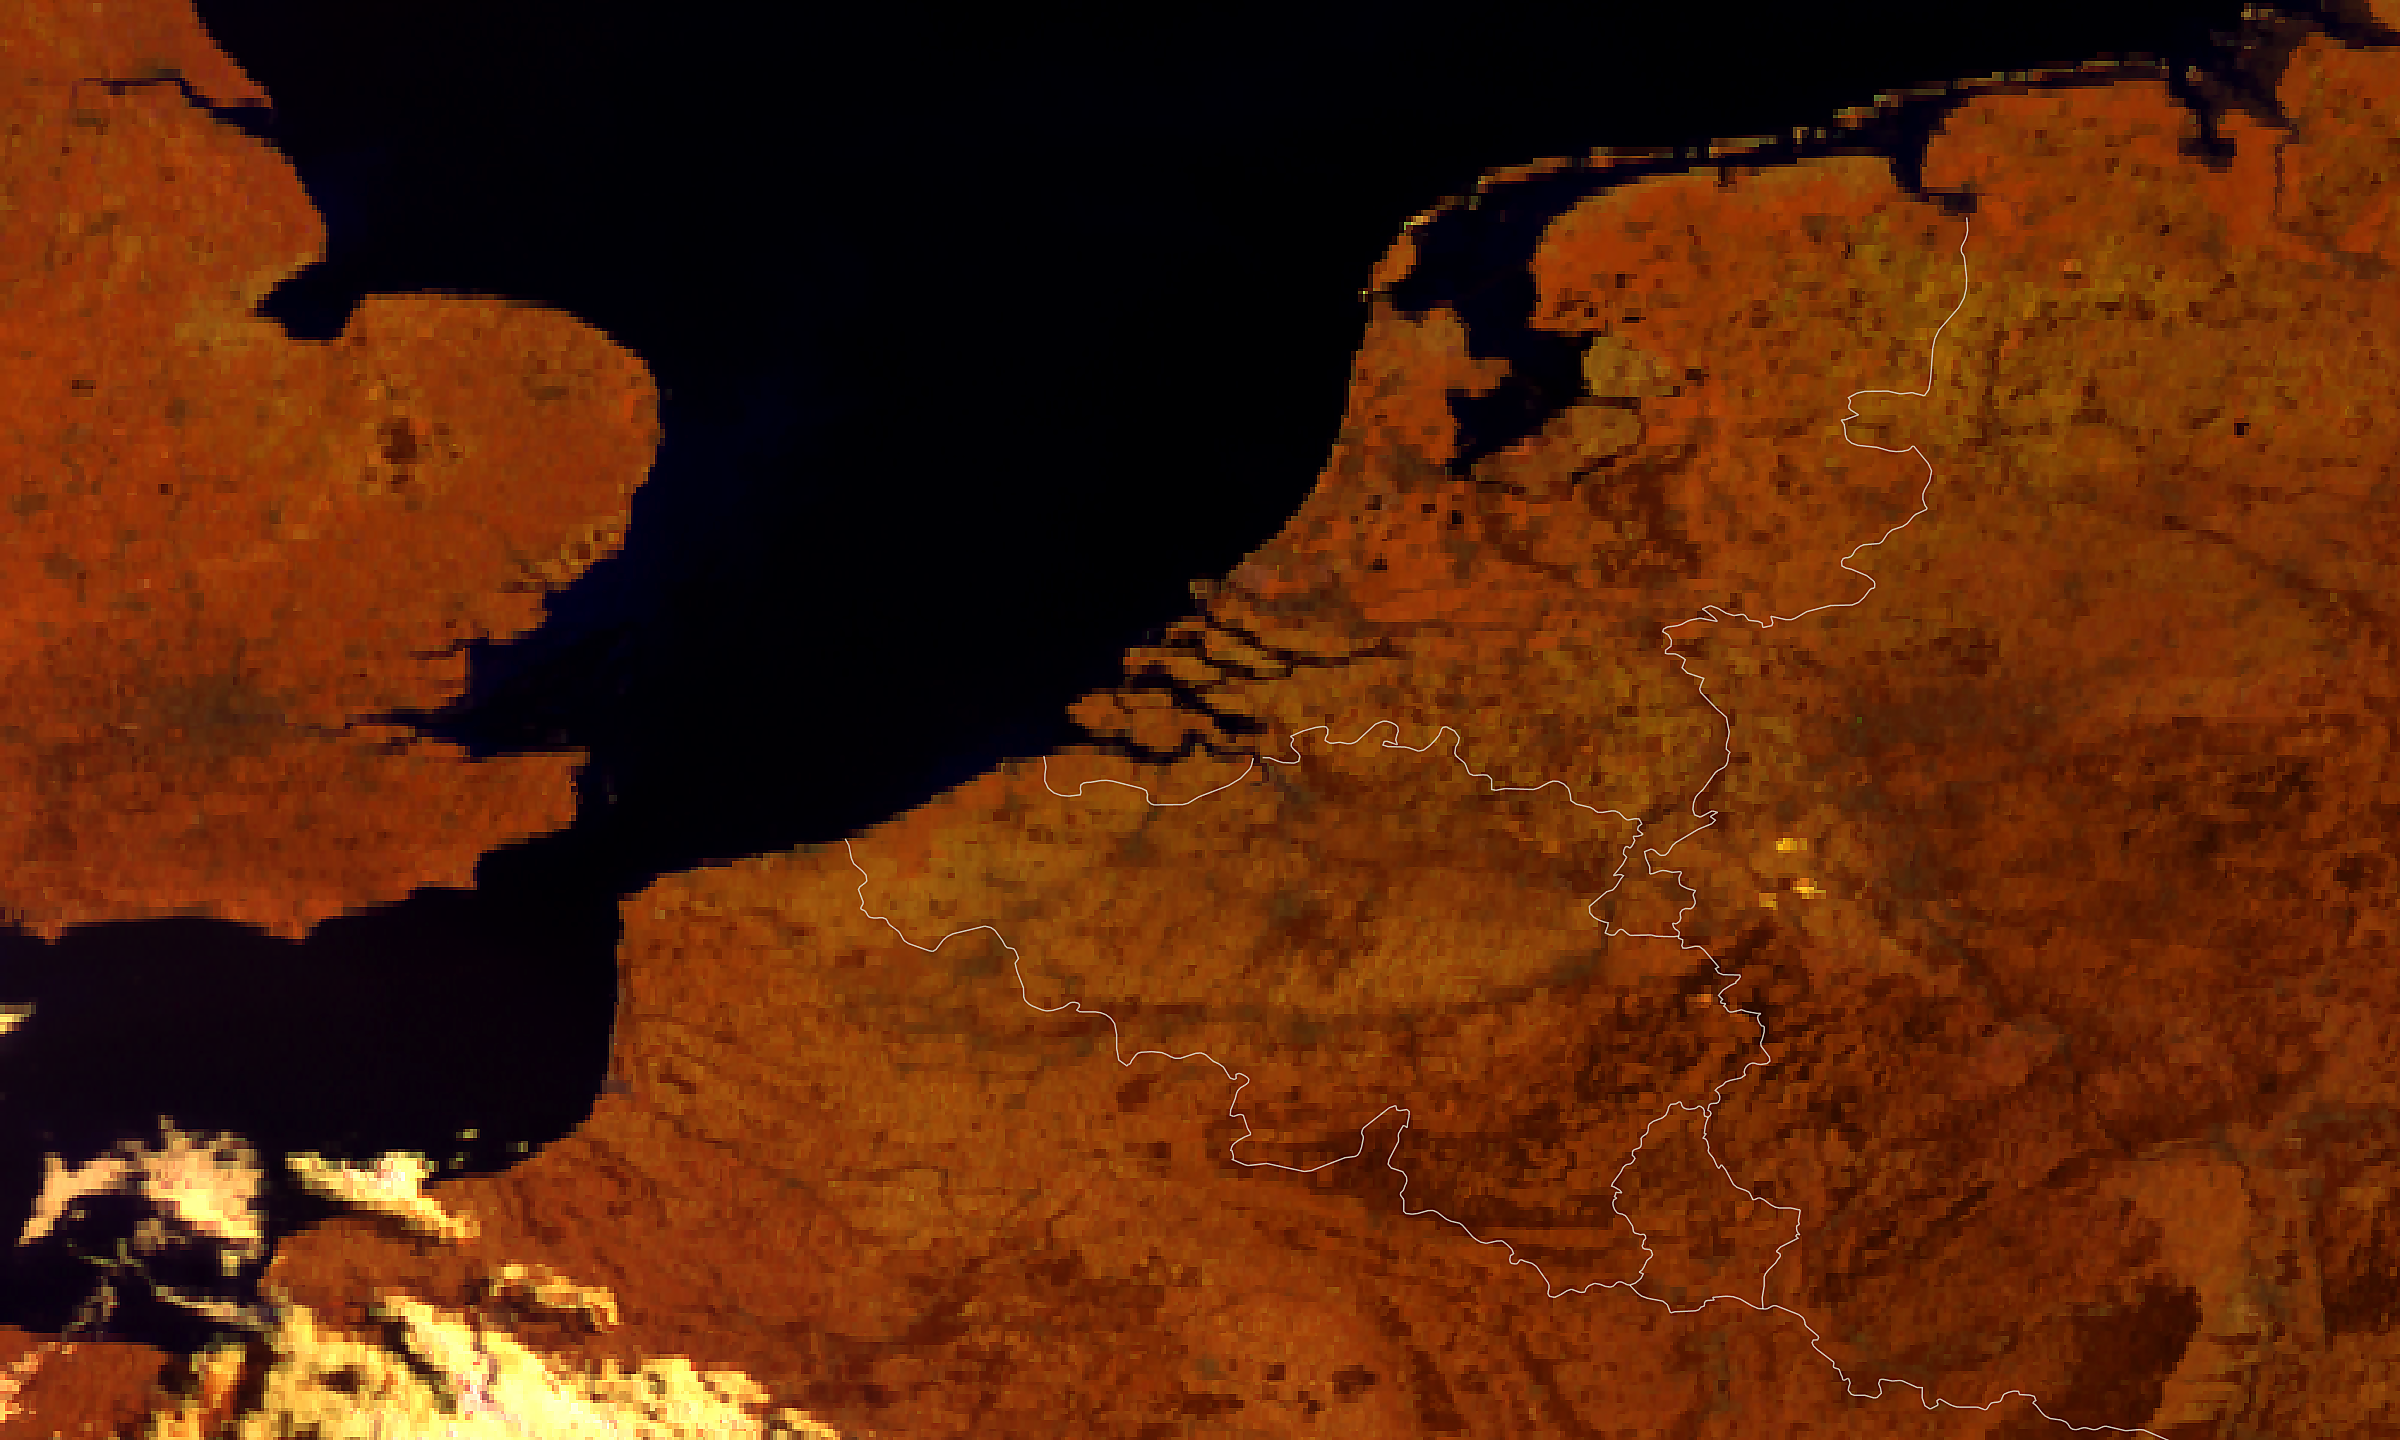
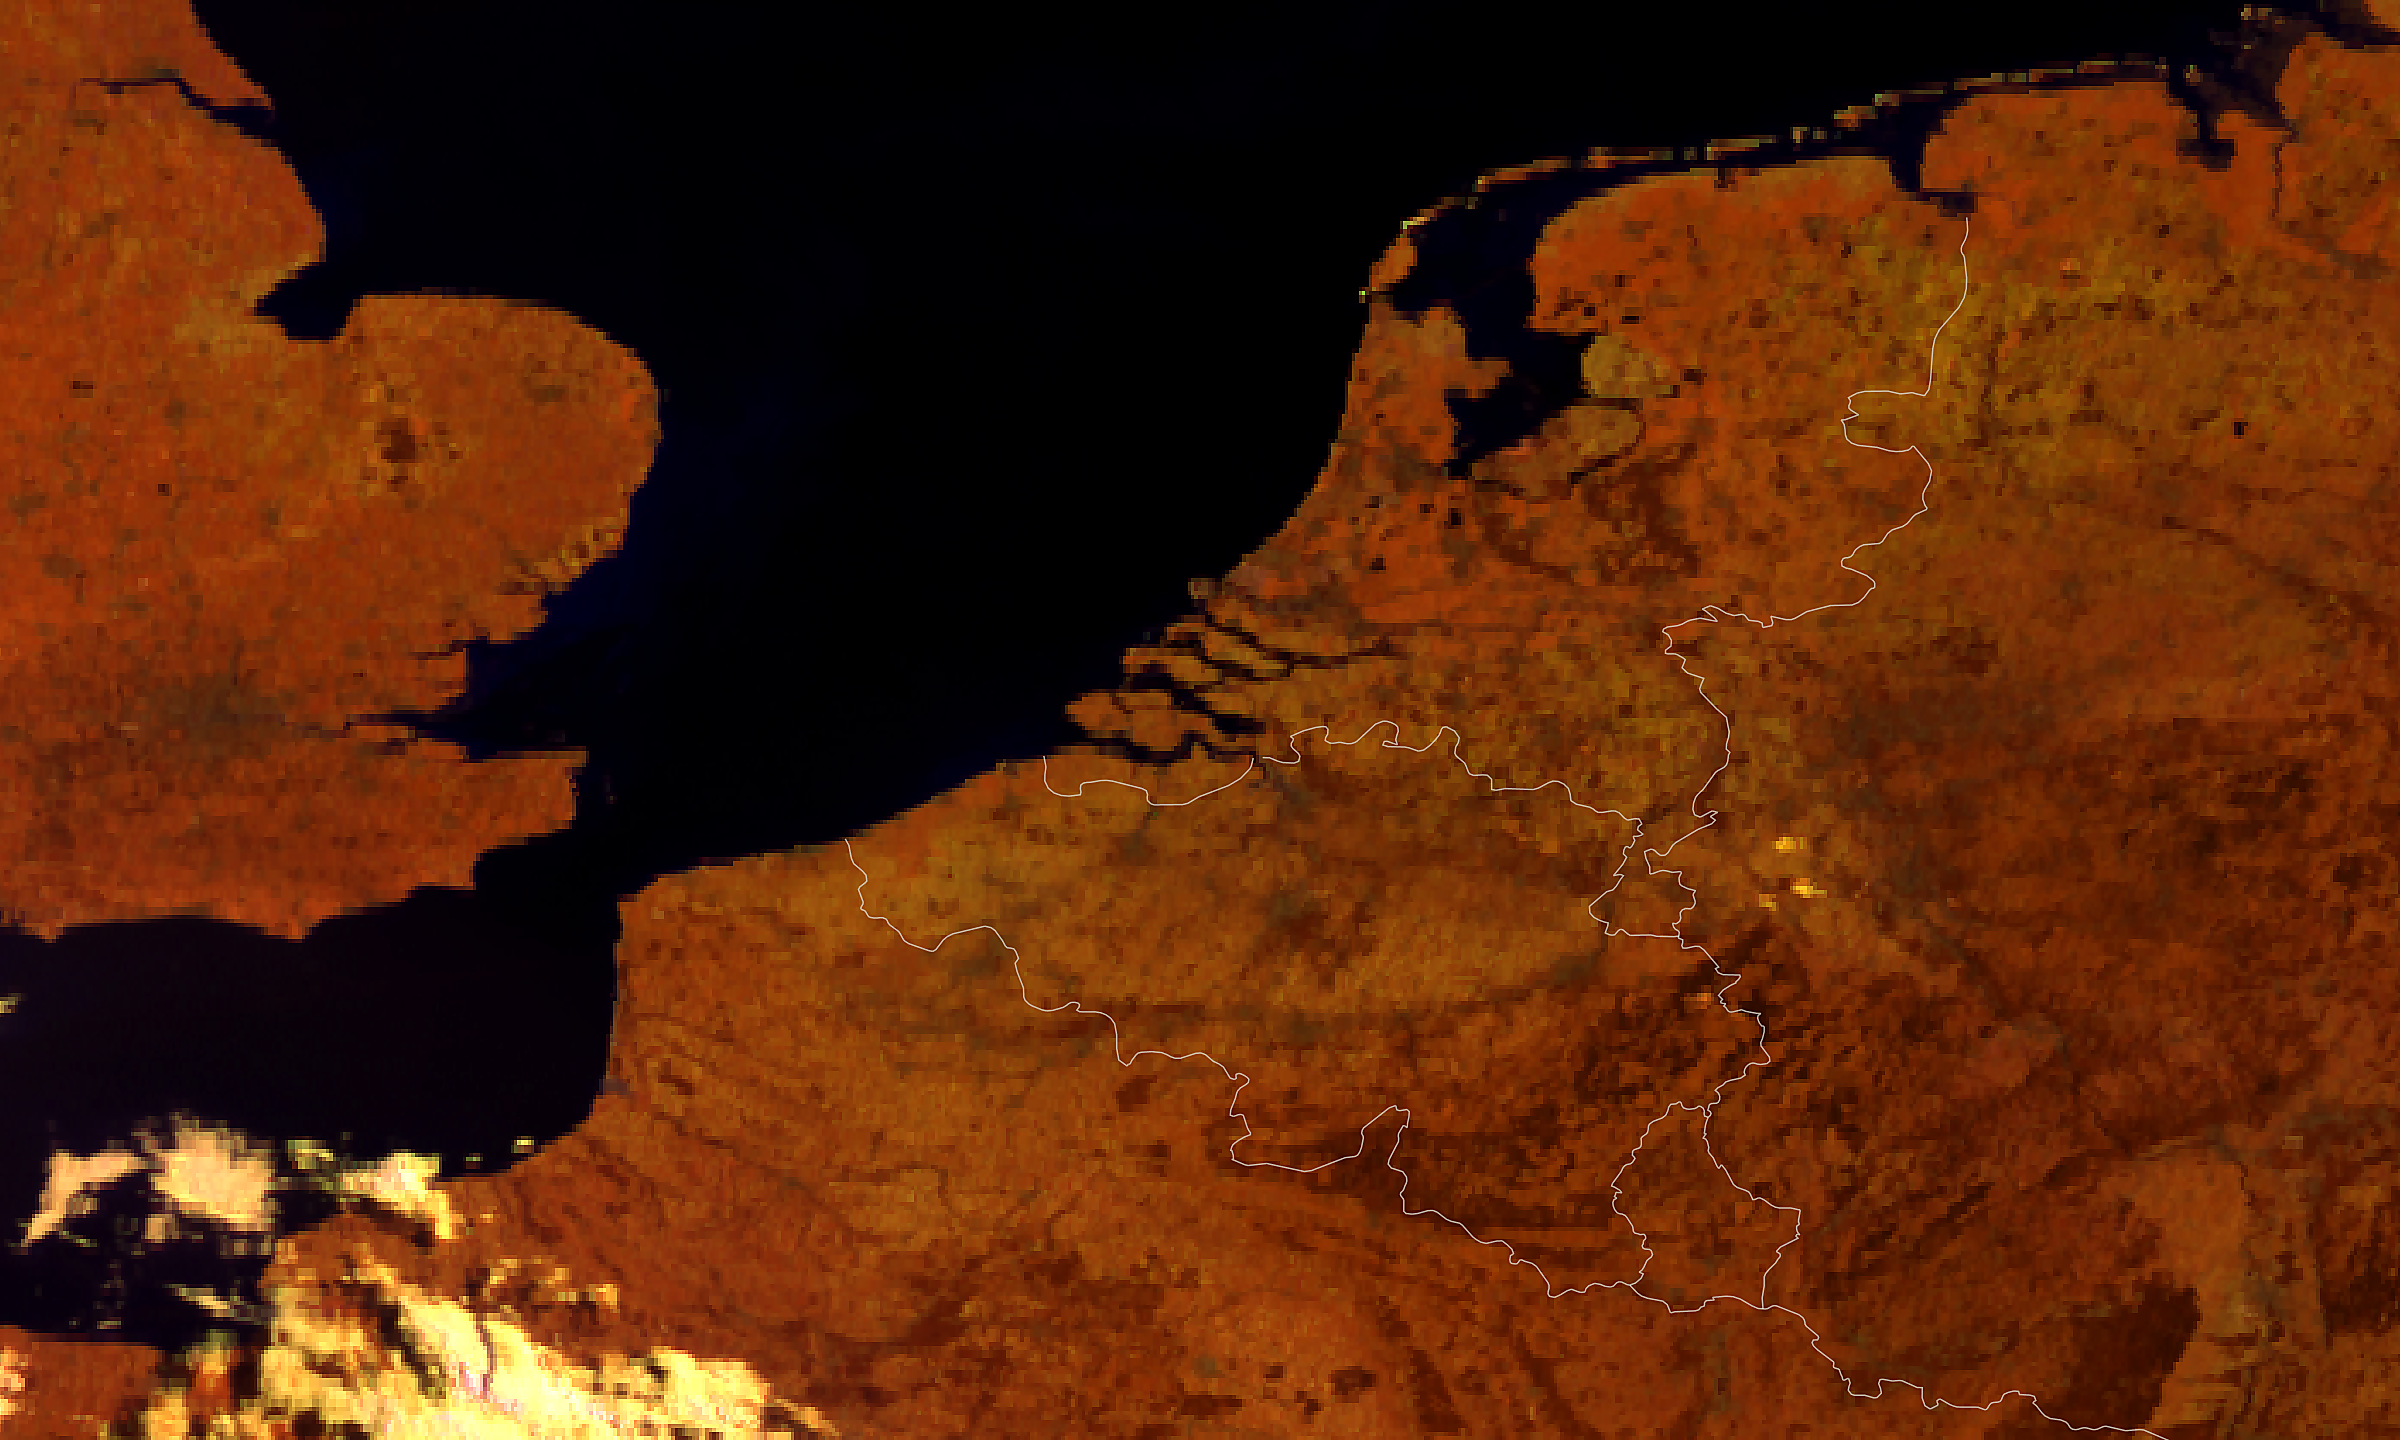
MTG Benelux satellietbeeld update 2026-05-01 09:15

diff --git a/mtg_benelux_meta.js b/mtg_benelux_meta.js
@@ -1,2 +1,2 @@
 const MTG_BENELUX_PRODUCT = "mtg_fd:rgb_cloudphase";
-const MTG_BENELUX_TIJD = "2026-05-01T06:40:00Z";
+const MTG_BENELUX_TIJD = "2026-05-01T06:50:00Z";
